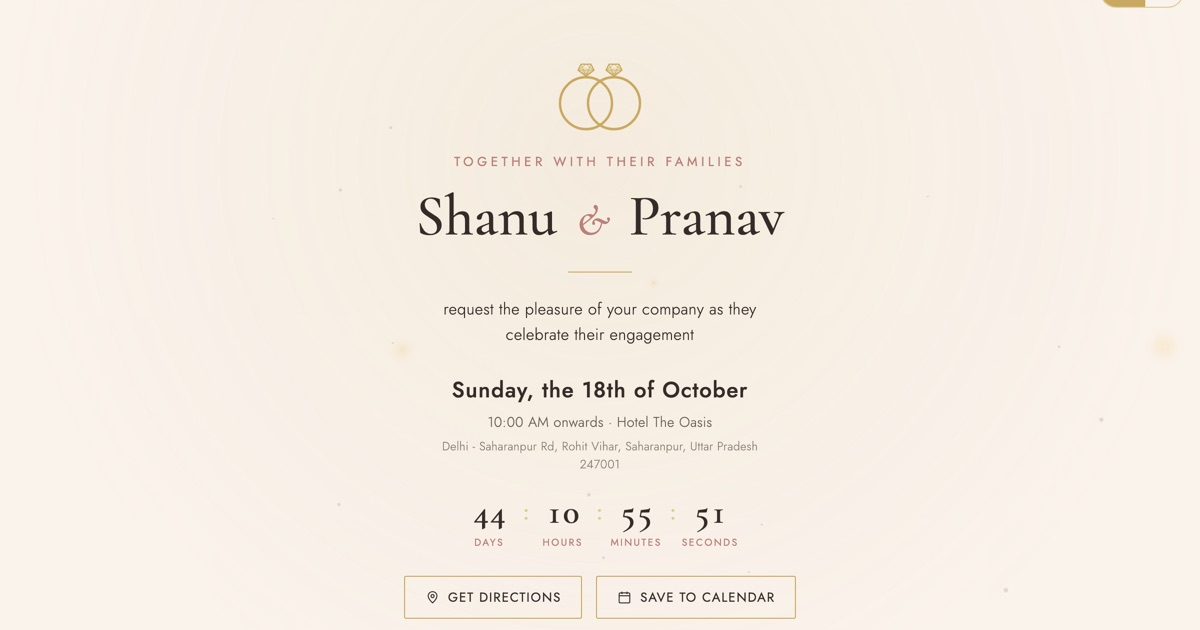
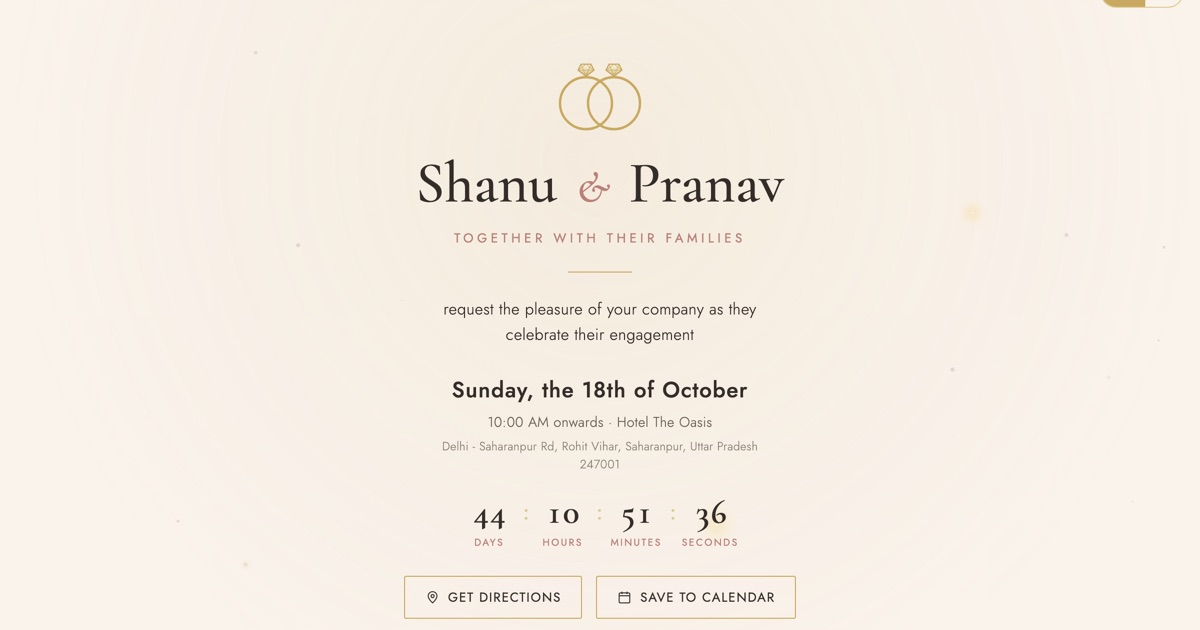
Move 'together with their families' below the names
Reorder eyebrow after the names and adjust reveal timing so it animates
top-to-bottom; regenerate the OG preview image to match.

Claude-Session: https://claude.ai/code/session_019SPXoL6n7Kp3WQMxHJqCQz

Changed region(s): [[0.3392, 0.2413, 0.6475, 0.3921], [0.5858, 0.7841, 0.6167, 0.8444], [0.5242, 0.8143, 0.555, 0.8444]]

diff --git a/index.html b/index.html
@@ -174,8 +174,8 @@
     opacity:0;
     transform:translateY(8px);
     animation:riseIn 0.9s ease-out forwards;
-    animation-delay:1.6s;
-    margin:0 0 14px;
+    animation-delay:2.15s;
+    margin:14px 0 0;
   }
 
   .names{
@@ -188,7 +188,7 @@
     opacity:0;
     transform:translateY(14px);
     animation:riseIn 1s ease-out forwards;
-    animation-delay:1.95s;
+    animation-delay:1.6s;
   }
   .names .amp{
     font-style:italic;
@@ -556,9 +556,9 @@
       </g></g>
     </svg>
 
-    <p class="eyebrow" id="t_eyebrow">TOGETHER WITH THEIR FAMILIES</p>
-
     <h1 class="names" id="t_names">Shanu <span class="amp">&amp;</span> Pranav</h1>
+
+    <p class="eyebrow" id="t_eyebrow">TOGETHER WITH THEIR FAMILIES</p>
 
     <div class="divider"></div>
 
